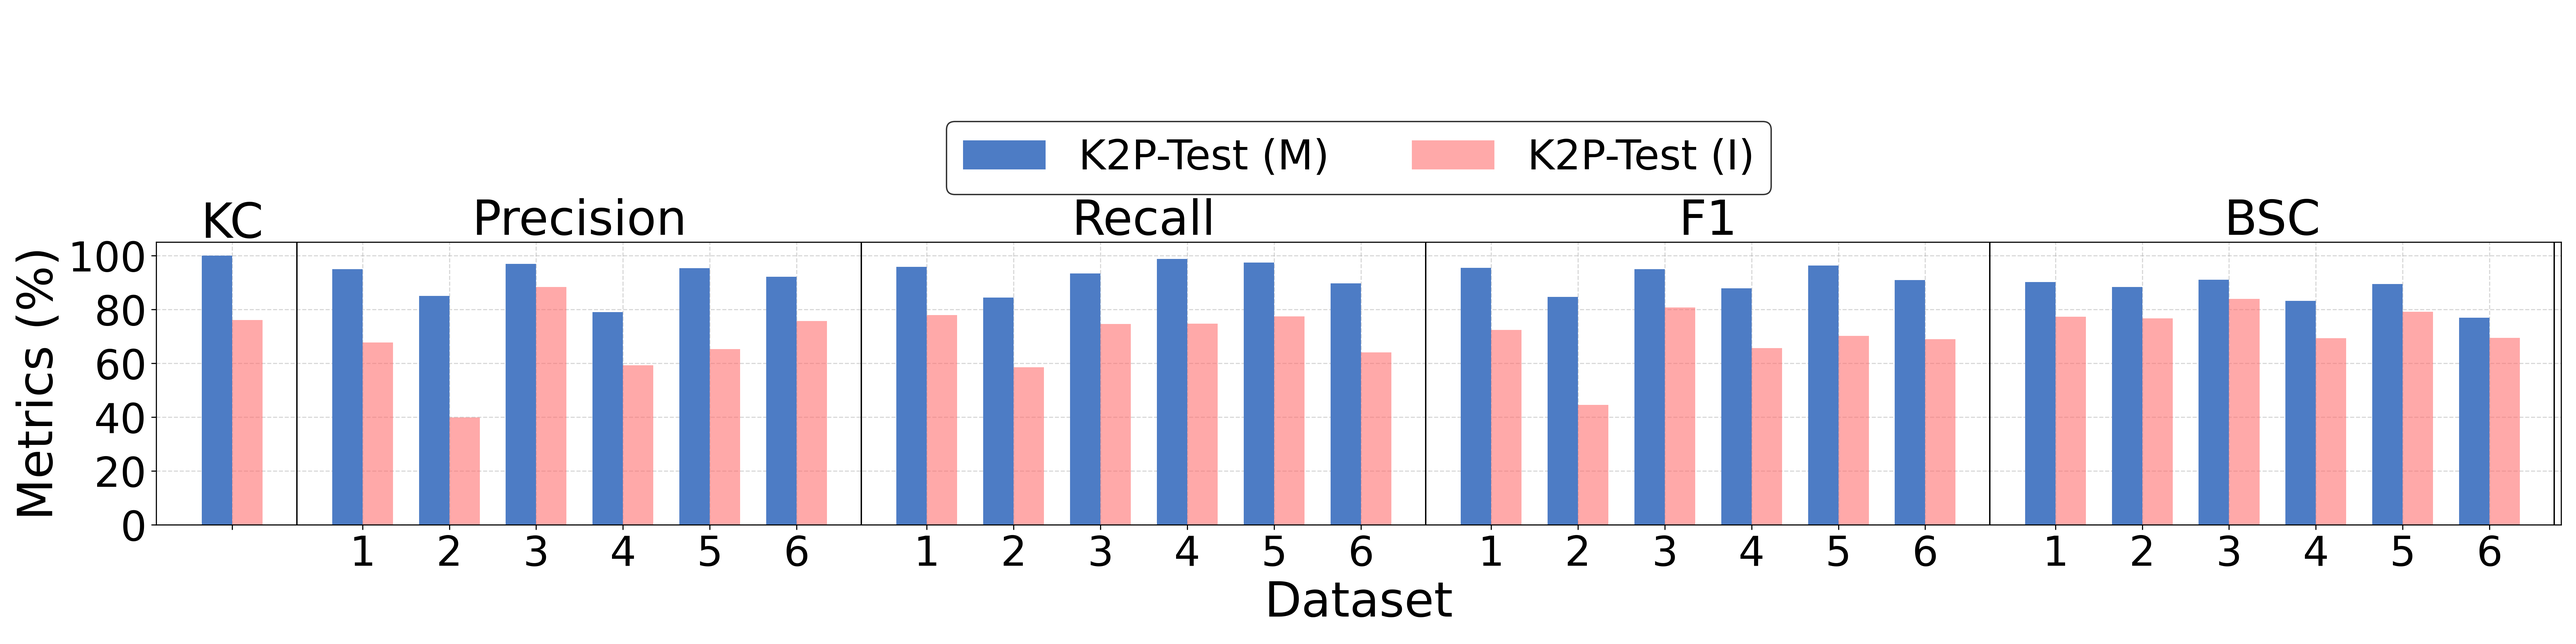
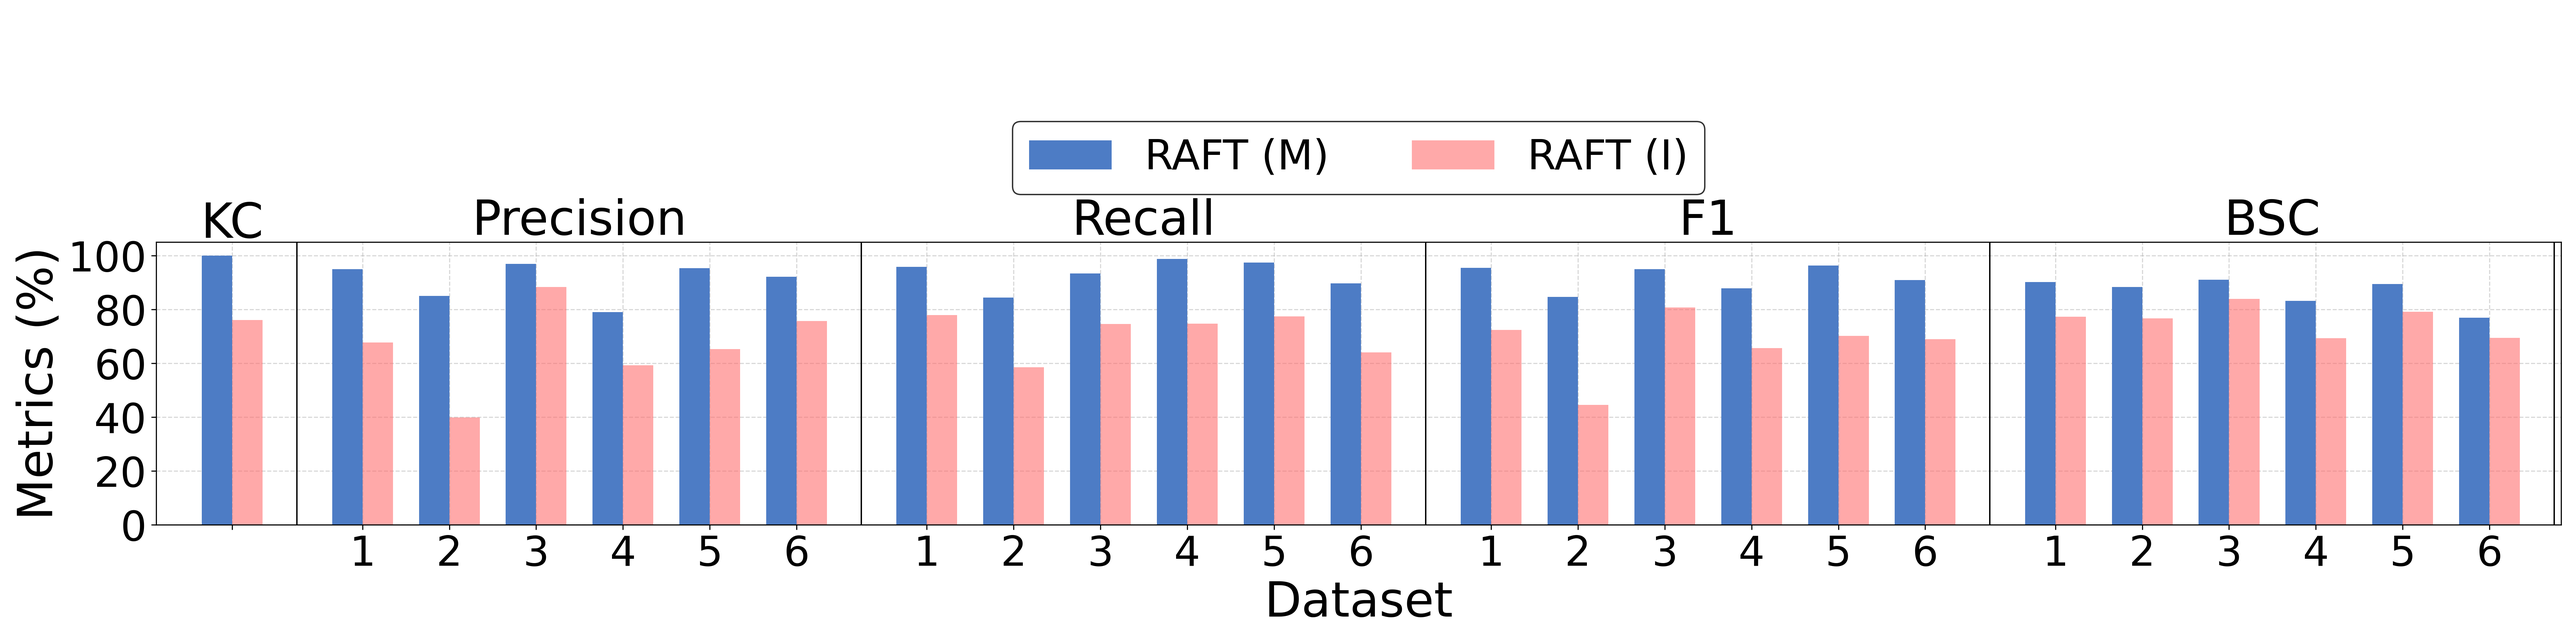
fix figure bug

Changed region(s): [[0.3738, 0.2154, 0.4985, 0.2769], [0.5919, 0.2154, 0.6854, 0.2769]]

diff --git a/experiment/exp1/draw_figure3.py b/experiment/exp1/draw_figure3.py
@@ -196,7 +196,7 @@ def draw_figure_2_merged():
     metrics = ["precision", "recall", "f1", "rc"]
     llms = ["grok", "deepseek", "gpt"]
     methods = ["ours", "only"]
-    labels = ["K2P-Test (M)", "K2P-Test (I)"]
+    labels = ["RAFT (M)", "RAFT (I)"]
 
     num_datasets = len(datasets)
     gap = 0.5
@@ -210,8 +210,8 @@ def draw_figure_2_merged():
 
     know_data = json.load(open("log/knowledge_coverage.json", "r", encoding="utf-8"))
     know_data = {
-        "K2P-Test (M)": know_data["ours"] * 100,
-        "K2P-Test (I)": (know_data["grok"]["coverage"] + know_data["deepseek"]["coverage"] + know_data["gpt"]["coverage"]) / 3 * 100
+        "RAFT (M)": know_data["ours"] * 100,
+        "RAFT (I)": (know_data["grok"]["coverage"] + know_data["deepseek"]["coverage"] + know_data["gpt"]["coverage"]) / 3 * 100
     }
 
     # 画知识覆盖率柱子

diff --git a/experiment/exp1/draw_figure2.py b/experiment/exp1/draw_figure2.py
@@ -90,7 +90,7 @@ def draw_figure():
     ax2.set_ylabel('Time (m)', fontsize=22)
     ax2.spines['top'].set_visible(False)  # 隐藏上边框
     ax2.set_xticks(x)
-    ax2.set_xticklabels(["Expert", "LLM4Fin", "E2E LLM", "K2P-Test"], fontsize=22)
+    ax2.set_xticklabels(["Expert", "LLM4Fin", "E2E LLM", "RAFT"], fontsize=22)
     # ax1.set_ylim(1, 10**7)
     # ax1.set_yticks([1, 10, 100, 1000, 10000, 100000, 1000000, 10000000])
     ax2.set_yticks([0, 100, 200, 300, 400])
